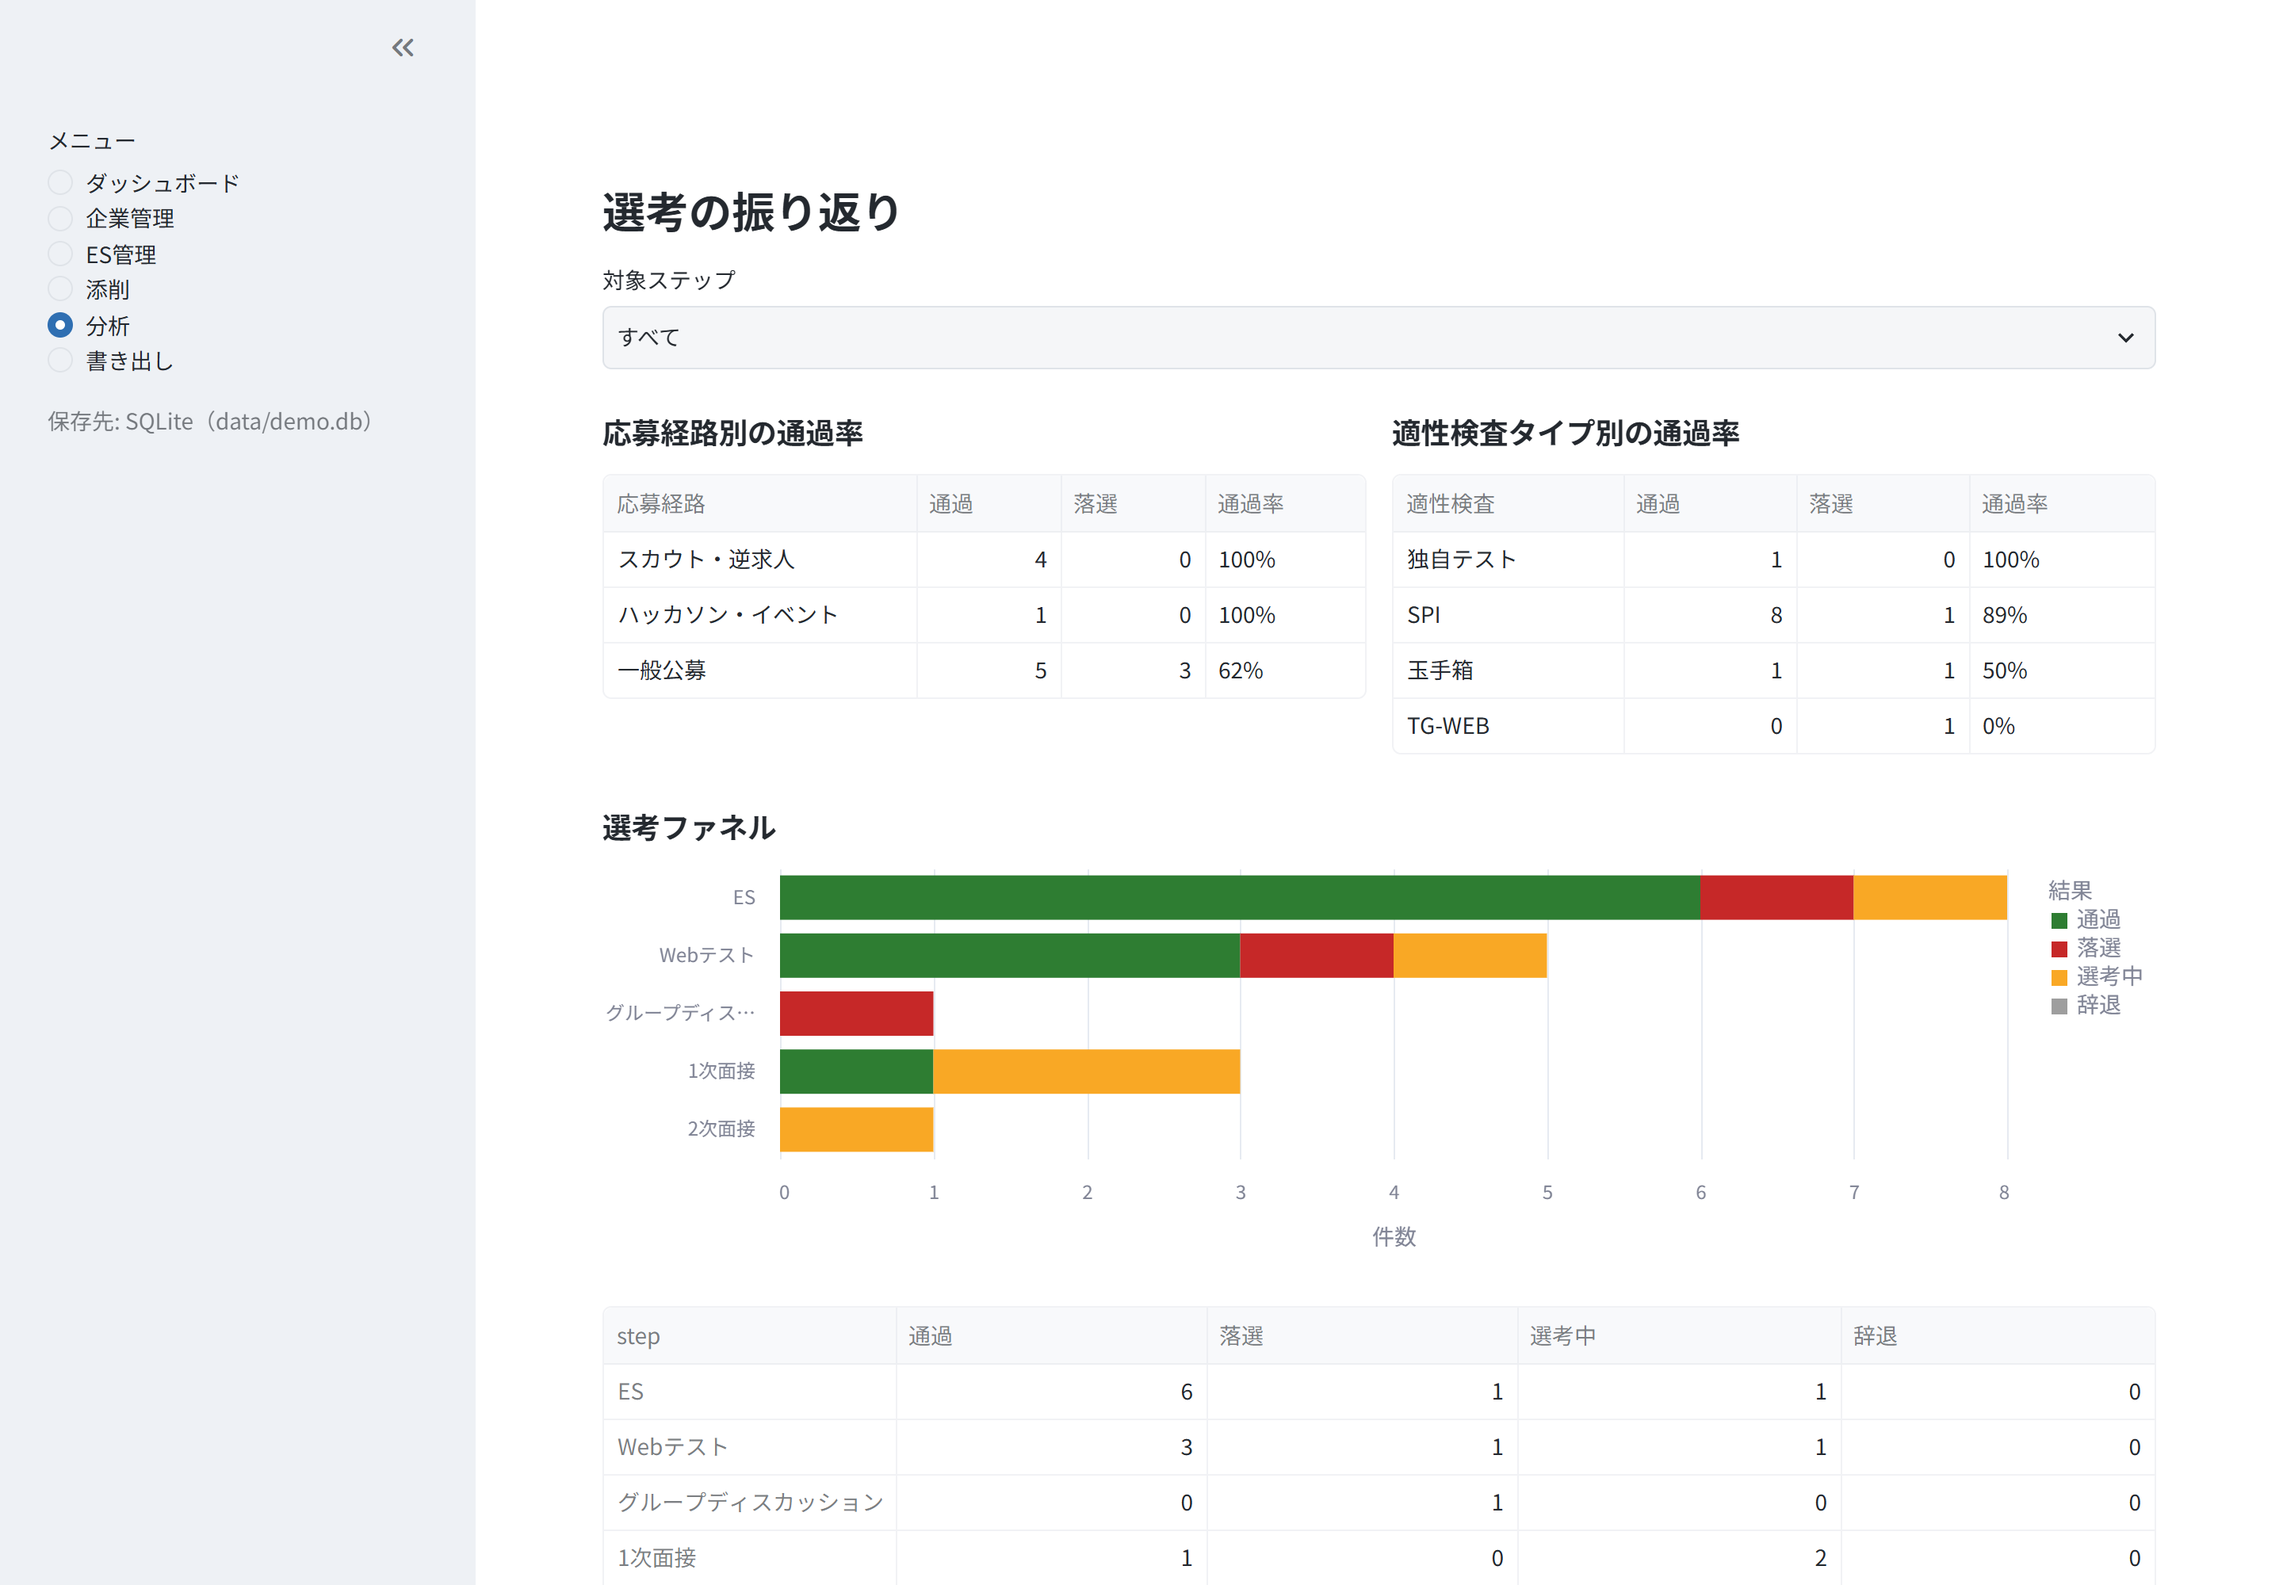
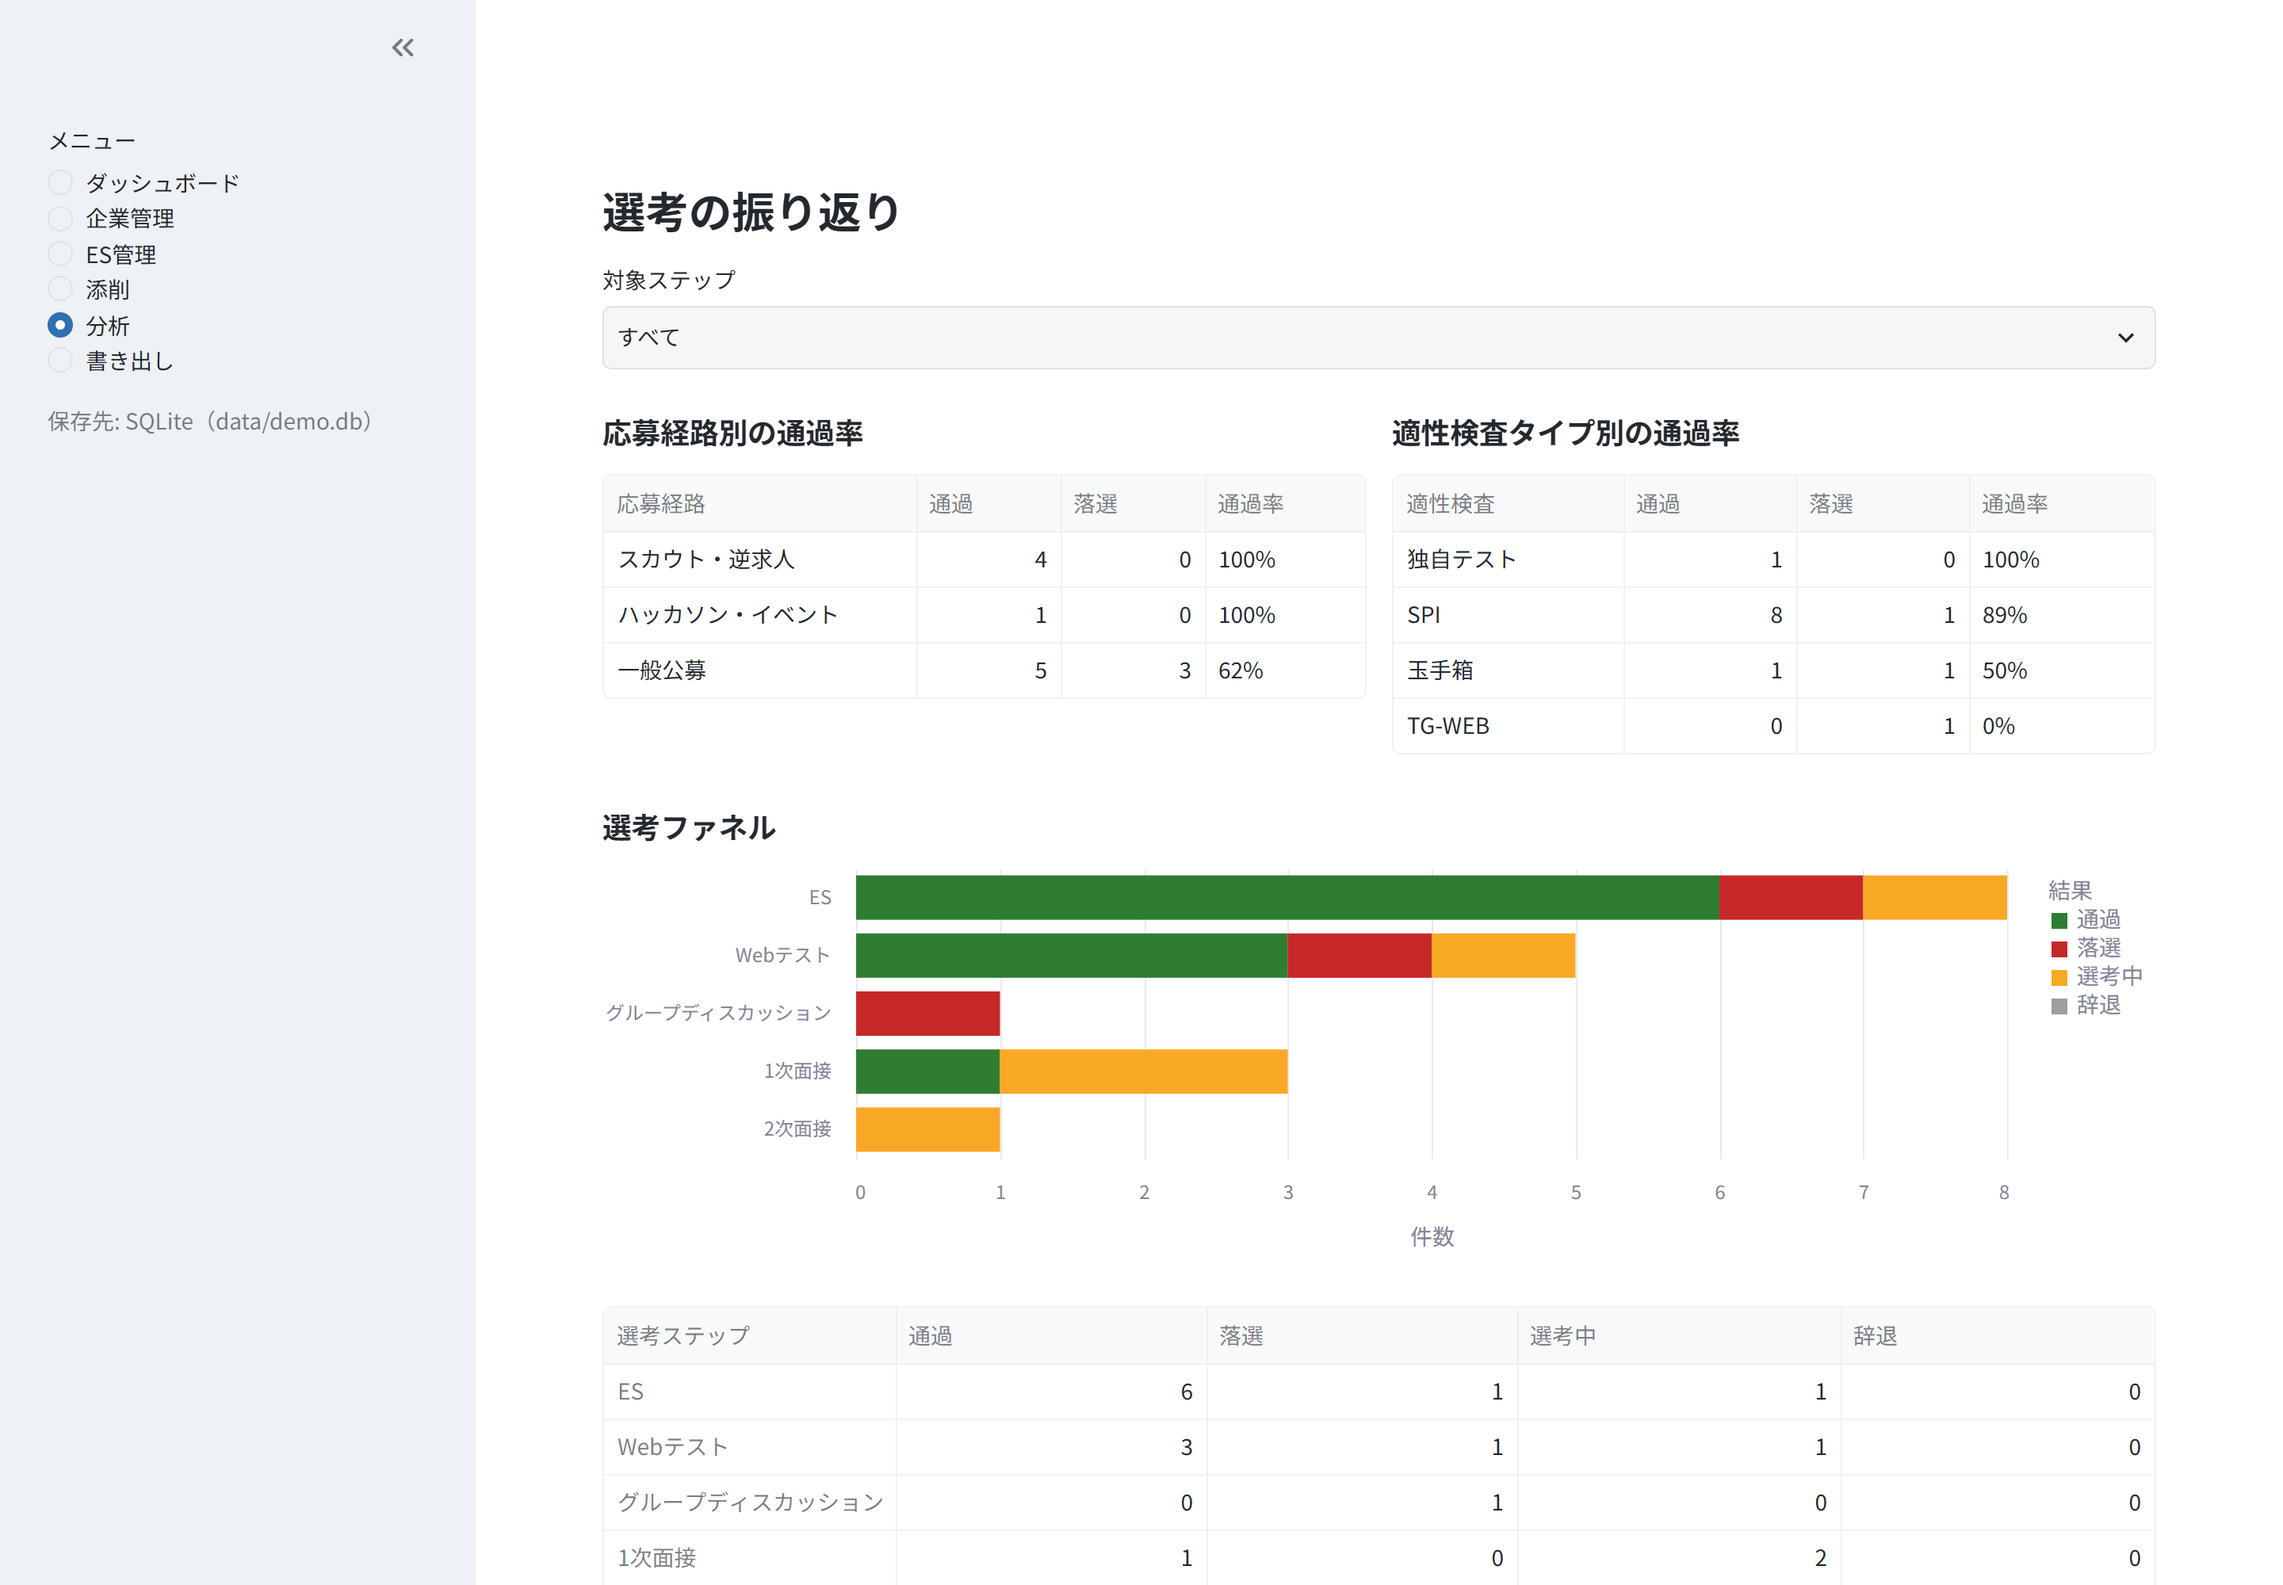
画面の表記を揃え、スクリーンショットを撮り直す
添削ページの題、分析ページの表の見出し、選考ファネルの Y 軸ラベルの見切れ。

diff --git a/app.py b/app.py
@@ -446,7 +446,7 @@ elif page == "ES管理":
 # --- 添削 ----------------------------------------------------------------
 
 elif page == "添削":
-    st.title("回答への所見")
+    st.title("添削")
     st.caption(
         "保存した回答を、書き方の観点から点検します。観点は"
         " shukatsu_tracker/review/criteria/ の TOML で定義していて、自由に足せます。"
@@ -584,7 +584,7 @@ elif page == "分析":
     frame = pd.DataFrame(
         [
             {
-                "step": r.step,
+                "選考ステップ": r.step,
                 "通過": r.passed,
                 "落選": r.failed,
                 "選考中": r.in_progress,
@@ -592,14 +592,15 @@ elif page == "分析":
             }
             for r in funnel_rows
         ]
-    ).set_index("step")
+    ).set_index("選考ステップ")
     # st.bar_chart は軸を辞書順に並べてしまうため、Altair で選考順に固定する
-    melted = frame.reset_index().melt("step", var_name="結果", value_name="件数")
+    melted = frame.reset_index().melt("選考ステップ", var_name="結果", value_name="件数")
     chart = (
         alt.Chart(melted)
         .mark_bar()
         .encode(
-            y=alt.Y("step", sort=list(frame.index), title=None),
+            # labelLimit=0 で上限を外す。既定の幅では長いステップ名が「…」で切れる
+            y=alt.Y("選考ステップ", sort=list(frame.index), title=None, axis=alt.Axis(labelLimit=0)),
             x=alt.X("件数", title="件数", axis=alt.Axis(tickMinStep=1, format="d")),
             color=alt.Color(
                 "結果",

diff --git a/tests/test_app_behaviour.py b/tests/test_app_behaviour.py
@@ -285,6 +285,26 @@ class TestEsLibraryFilter:
         assert not [e.label for e in at.expander if "志望動機" in e.label]
 
 
+class TestLabels:
+    def test_review_page_title_matches_the_menu(self, app_db):
+        """メニューの項目名とページの題がずれていないこと。"""
+        at = open_page(app_db, "添削")
+        assert [t.value for t in at.title] == ["添削"]
+
+    def test_funnel_table_has_no_english_heading(self, app_db):
+        """分析ページの表の見出しに、内部の列名が出ていないこと。"""
+        _, step_id = seed_company(app_db)
+        database = open_db(app_db)
+        try:
+            SelectionService(database).update_step(step_id, result="通過")
+        finally:
+            database.close()
+        at = open_page(app_db, "分析")
+        funnel = at.dataframe[-1].value
+        assert funnel.index.name == "選考ステップ"
+        assert "step" not in [funnel.index.name, *funnel.columns]
+
+
 class TestConnectionScope:
     def test_each_session_opens_its_own_connection(self, app_db):
         """セッションごとに別の接続を持つこと。共有すると書き込みが干渉する。"""

diff --git a/CHANGELOG.md b/CHANGELOG.md
@@ -16,6 +16,7 @@
 - README に現在の利用状況を明記。作者自身の選考管理は今もスプレッドシートで、このアプリは移行経路(#8)ができるまで使っていない。スプレッドシートの課題の話がアプリの運用実績に読めていた。docs/operations.md も題を「起動と保守の手引き」に改め、運用実績を前提にしない書き方にした
 
 ### Fixed
+- 画面の表記を揃えた。メニュー「添削」とページの題「回答への所見」の不一致、分析ページの表の見出しが `step` のままだった点、選考ファネルの Y 軸で長いステップ名が「…」で切れていた点。スクリーンショット（添削・分析）も撮り直した
 - `SelectionService.add_step` が、並び順を決める読み取りをトランザクションの外で行っていた。読み取りを境界の中へ移し、SQLite では境界の開始を `BEGIN IMMEDIATE` にした。境界は書き込みにしか使っておらず、既定の `BEGIN` のままだと、中で読んでから書くまでの間に別の接続が書き込めてしまう
 - 利用者が入れた文字列が Markdown として解釈される箇所が残っていた。企業の削除確認のチェック、ES管理の回答の見出し、追加・削除の通知でエスケープし、依頼文では設問と提出先を1行に収める（改行を含む入力が見出しや指示として割り込めないように）
 - 接続に失敗すると画面に生のトレースバックが出ていた。psycopg が未導入（RuntimeError）、未対応の接続先（ValueError）、届かない PostgreSQL や開けない SQLite ファイル（ドライバの例外）を、永続化層で共通の `ConnectionFailedError` に翻訳する。文面には接続先のホスト名や利用者名を含めない

diff --git a/docs/test_plan.md b/docs/test_plan.md
@@ -105,6 +105,7 @@
 | 入力エラーは例外ではなく文面で出る | `test_duplicate_company_name_shows_a_message_not_a_traceback`、`test_blank_company_name_is_reported` |
 | ES管理の絞り込みが効く（判定はサービス層の検索） | `test_keyword_narrows_the_list` |
 | 利用者が入れた文字列を、ラベルや通知で Markdown として解釈させない | `TestUserTextIsNotMarkdown` |
+| メニューの項目名とページの題が揃い、表の見出しに内部の列名が出ない | `test_review_page_title_matches_the_menu`、`test_funnel_table_has_no_english_heading` |
 | 削除は確認しないと押せない。確認すれば消える | `test_delete_is_disabled_until_confirmed`、`test_delete_works_once_confirmed` |
 | セッションごとに接続を持ち、別接続から書き込みが見える | `test_each_session_opens_its_own_connection`、`test_write_through_the_app_is_visible_to_another_connection` |
 | 保存先の表示にパスワードや絶対パスが出ない | `TestTargetIsNotLeaked` |
